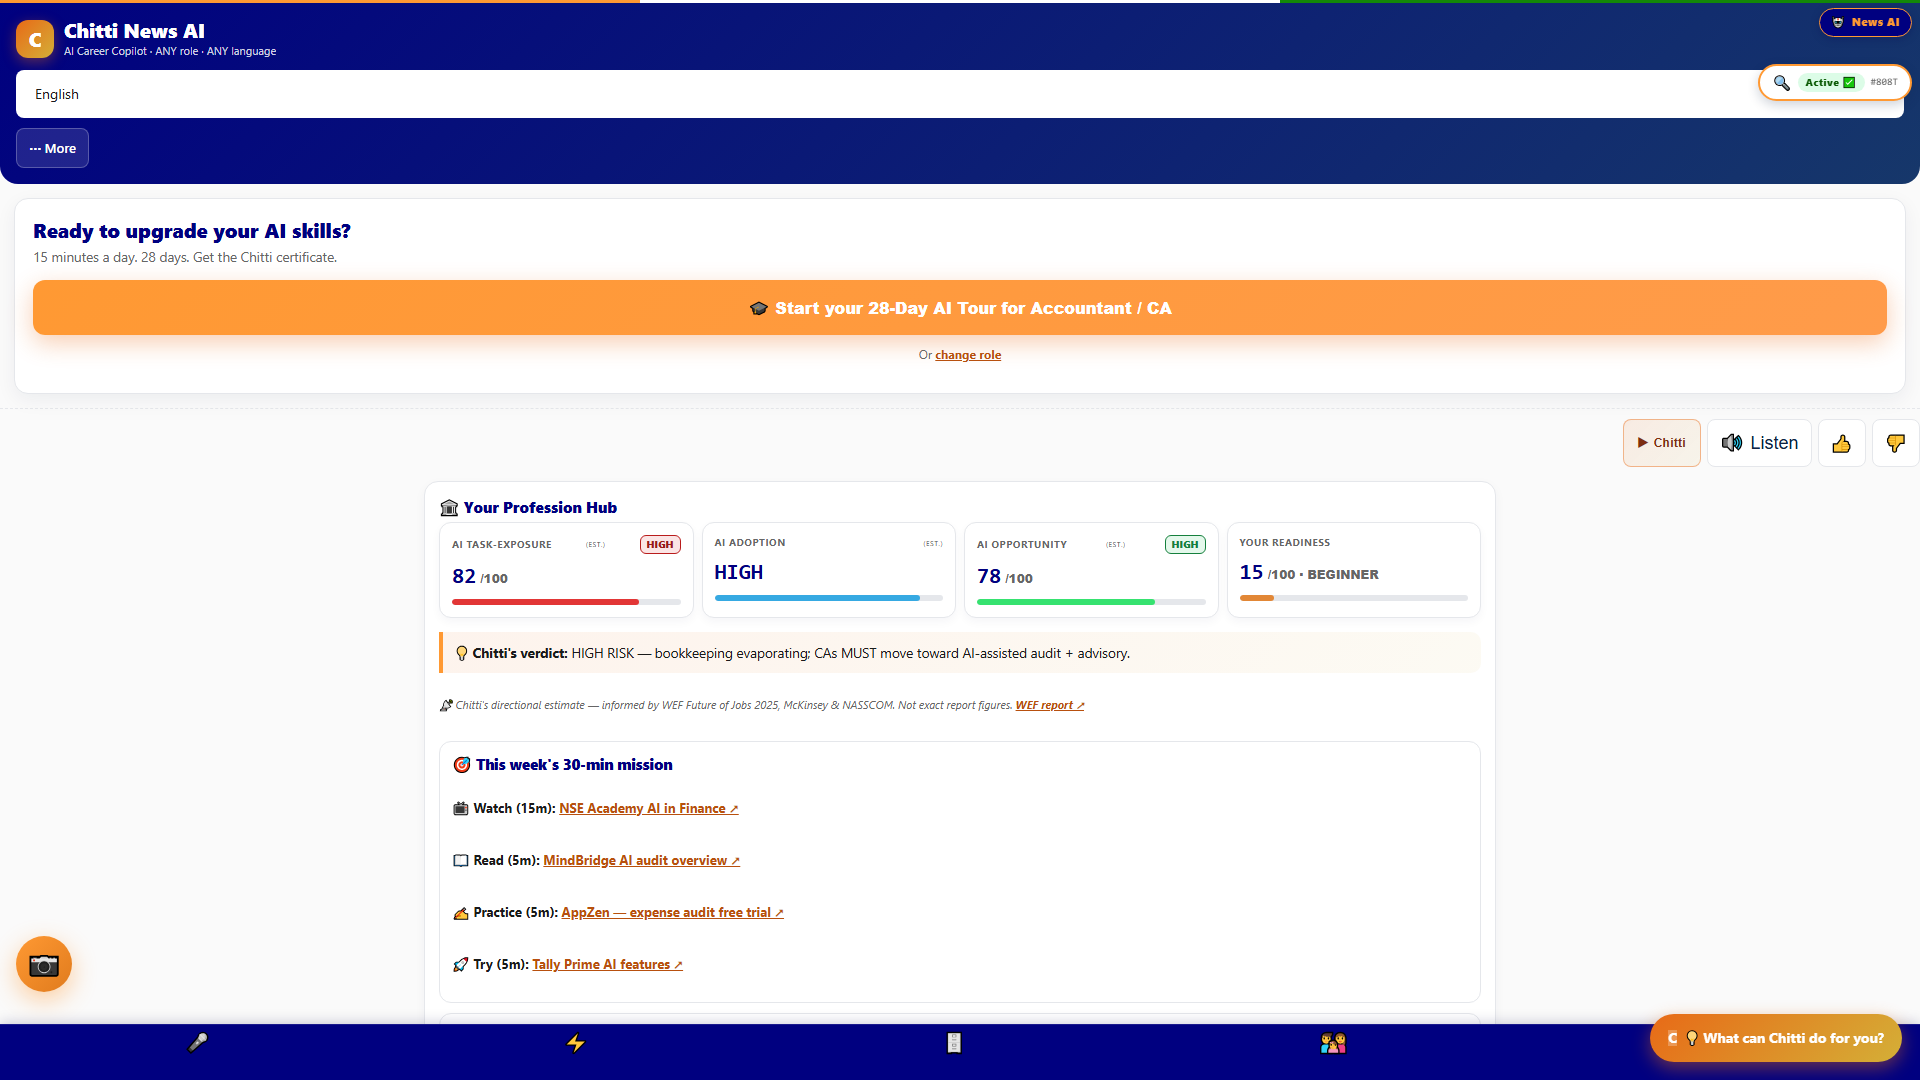
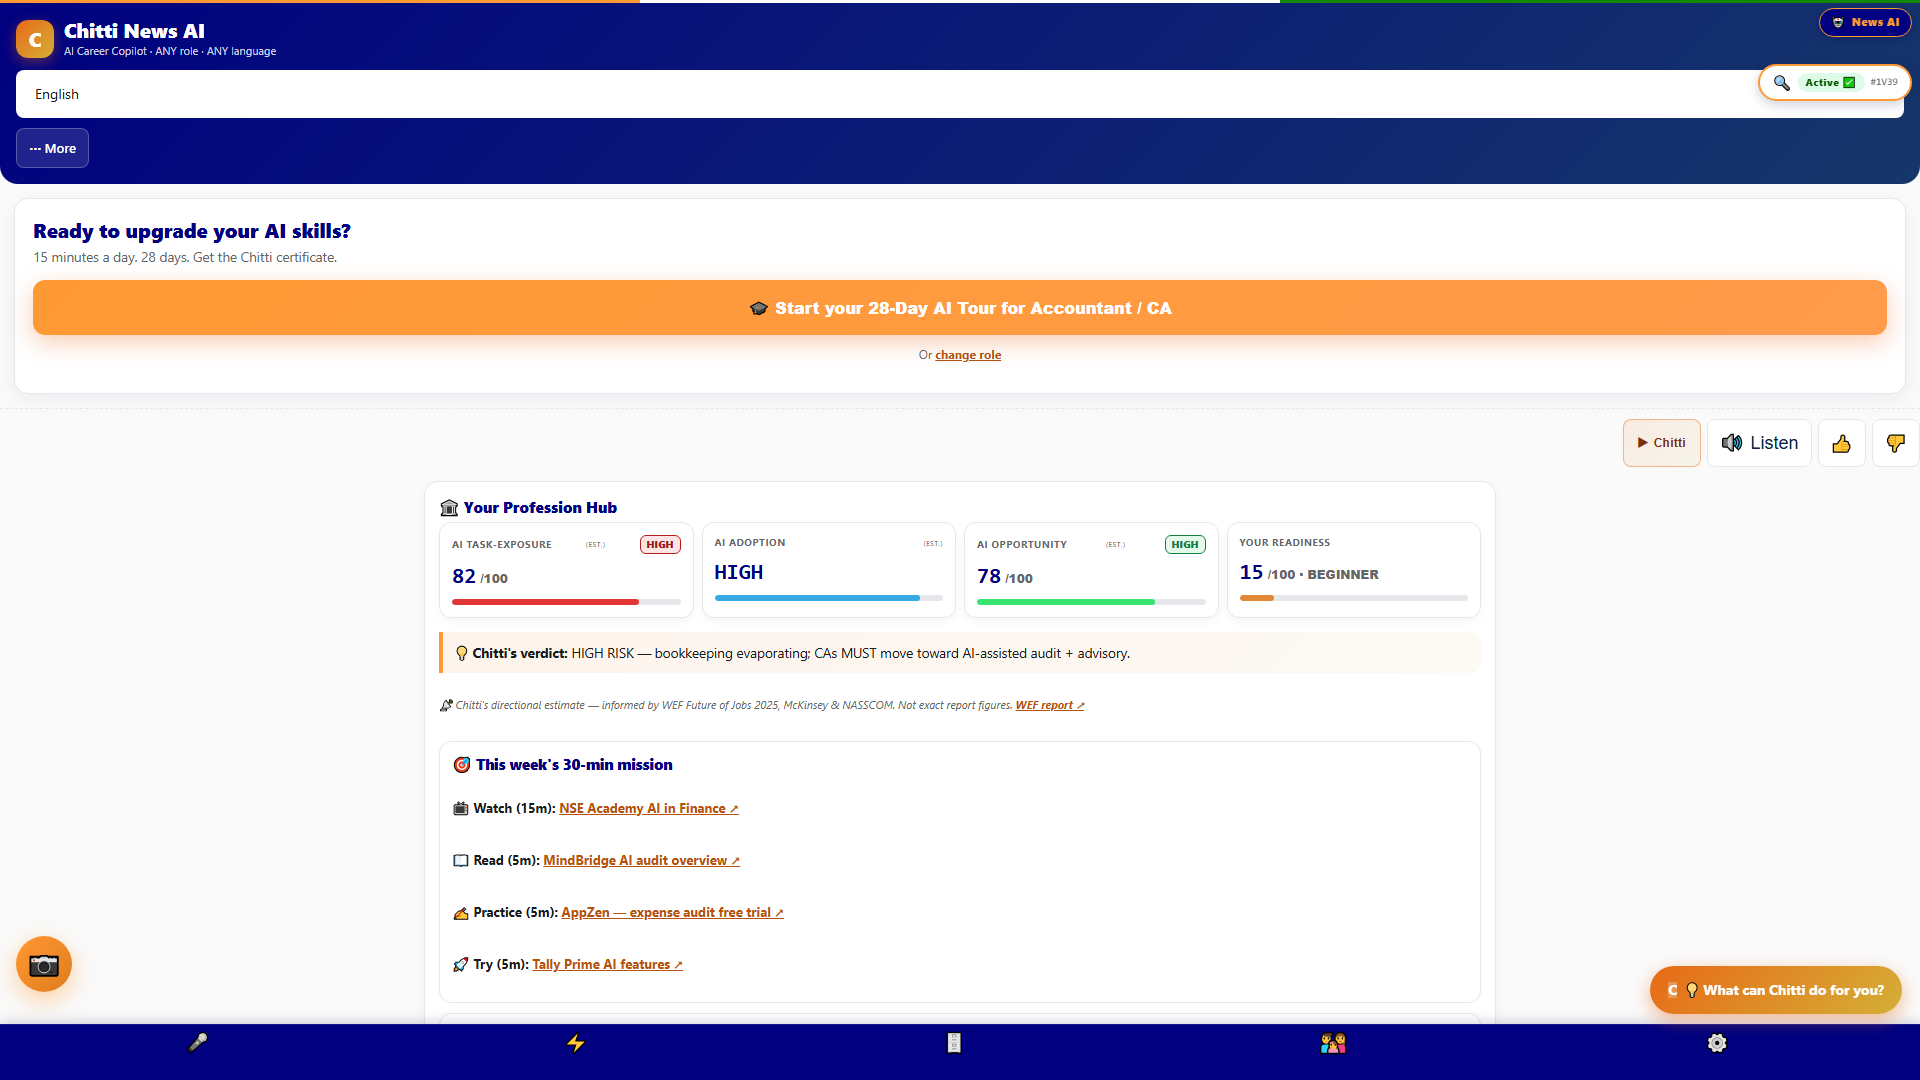
fix(a11y/substrate): lift floating CTAs above bottom-nav → axe 0 serious on ALL 5 devices
The last axe target-size violation was NOT the nav link size (they're 48×48) —
axe: "partially obscured (smallest space 15.4px)". The "What can Chitti do for
you?" pill (.chitti-features-cta, 252px, z=9990) sat at bottom:18px and overlapped
4 bottom-nav links. Fix (chitti_theme.css): when body.chitti-has-bottom-nav,
lift .chitti-features-cta/.chitti-camera-fab/#chitti-mic-fab to bottom:66px.

Result: cert_cnai_board.mjs axe own+substrate = 0 serious on desktop 1920,
laptop 1366, iPad 810, Android 360, iPhone 390 (was: target-size substrate).
Shared substrate fix — removes the obscuring on every page with both elements.

Changed region(s): [[0.8438, 0.8861, 1.0, 1.0]]

diff --git a/chitti_theme.css b/chitti_theme.css
@@ -504,6 +504,16 @@ html[dir="rtl"] .chitti-langbar { right: auto; left: 8px; }
 }
 .chitti-bharat-bottom-nav .ico { font-size: 20px; line-height: 1; }
 
+/* When the bottom nav is present, lift floating bottom-corner CTAs above it so
+   they don't OBSCURE the nav tap targets (WCAG 2.2 target-size). FIX 2026-06-09:
+   the "What can Chitti do for you?" pill (chitti-features-cta) sat at bottom:18px
+   and partially obscured 4 nav links down to ~15px wide. */
+body.chitti-has-bottom-nav .chitti-features-cta,
+body.chitti-has-bottom-nav .chitti-camera-fab,
+body.chitti-has-bottom-nav #chitti-mic-fab {
+  bottom: 66px !important;
+}
+
 /* ═══════════════════════════════════════════════════════════════
    BHARAT HERO GRADIENT (opt-in per page)
    .chitti-bharat-hero adds the flag gradient hero. Section titles
